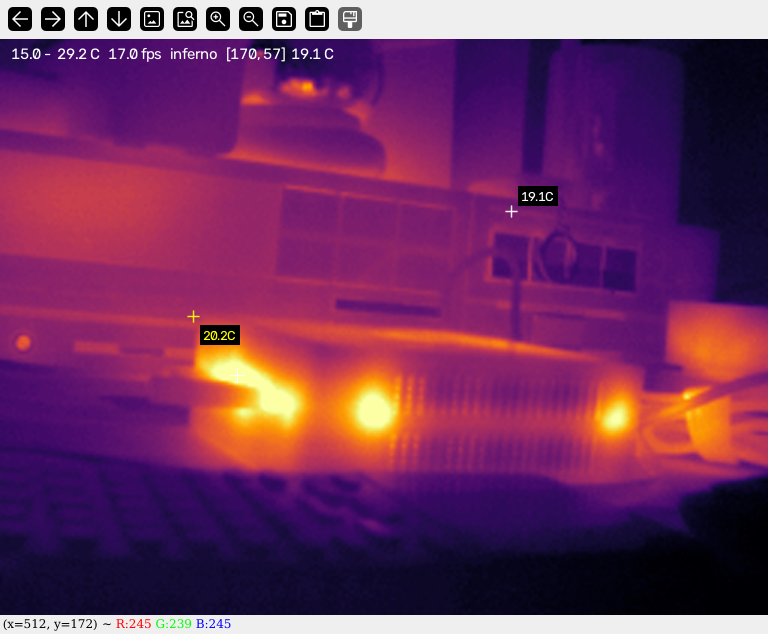
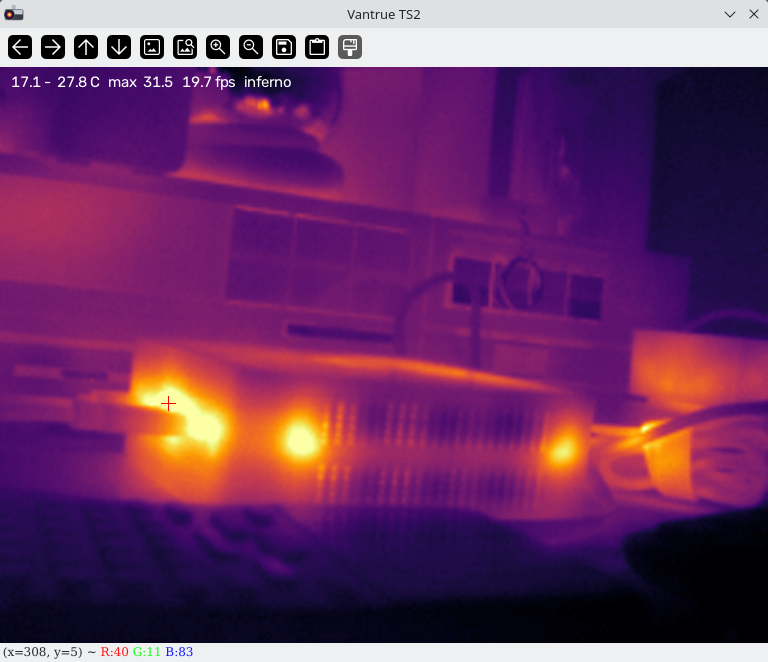
- Updated screenshot.

diff --git a/README.md b/README.md
@@ -7,7 +7,7 @@ The TS2 ships with a Windows-only application. This project reimplements its
 USB protocol so the camera works anywhere, and exposes the **full radiometric
 plane** — a real temperature for every pixel, not just a false-colour picture.
 
-![Live viewer](docs/screenshot.png)
+![Live viewer](./docs/screenshot.png?v=1.2)
 
 ---
 
